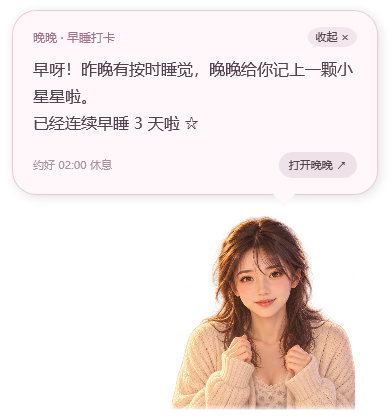
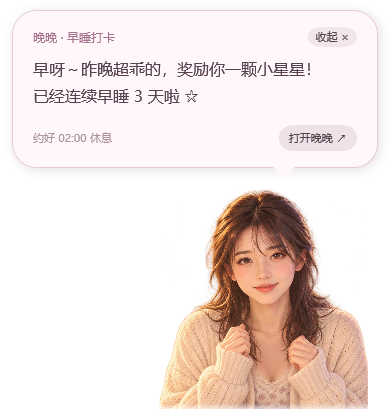
Screenshots from the v0.4.0 Windows run: desk pet, settings, new copy in reminders and sleep watch
Claude-Session: https://claude.ai/code/session_01G3B1SXPYJmTpcEmhbeBJzw

diff --git a/README.md b/README.md
@@ -45,11 +45,11 @@
 3. 先点 **「体验睡前倒计时」**：35 秒完整演示，**绝不会关机**。
 4. 点右上角 **「⚙ 设置」**：设好睡觉时间（周末可以单独设），选择到点后「正常关机」或「睡眠」，点 **「保存并开启守护」**。以后在主窗口点「暂停守护 / 开启到点守护」就能一键切换。
 
-> 小技巧：右键右下角托盘图标 →「在桌面创建晚晚快捷方式」，以后双击桌面头像就能打开；在设置里勾选「开机陪伴」则每天登录后自动出现。
+> 小技巧：右键右下角托盘图标 →「在桌面创建晚晚快捷方式」，以后双击桌面头像就能打开；在设置里勾选「开机自动启动」则每天登录后自动出现。
 
-| 桌面小头像 | 准点提醒气泡 | 睡前收尾倒计时 |
+| 书桌前的晚晚（喝水 / 你离开时趴着睡） | 准点提醒气泡 | 睡前收尾倒计时 |
 |:--:|:--:|:--:|
-| <img src="docs/screenshots/desktop-pet.png" width="142" alt="可拖动的桌面头像"> | <img src="docs/screenshots/reminder-bubble.png" width="270" alt="带报时的提醒气泡"> | <img src="docs/screenshots/bedtime-countdown.png" width="270" alt="收尾倒计时"> |
+| <img src="docs/screenshots/desk-pet-drink.png" width="142" alt="桌宠在书桌前喝水"> <img src="docs/screenshots/desk-pet-nap.png" width="142" alt="桌宠趴着睡、台灯关掉"> | <img src="docs/screenshots/reminder-bubble.png" width="270" alt="带报时的提醒气泡"> | <img src="docs/screenshots/bedtime-countdown.png" width="270" alt="收尾倒计时"> |
 
 | 起夜监督：关机后又偷偷开机 | 早上的早睡打卡 |
 |:--:|:--:|
